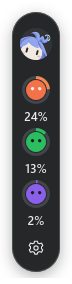
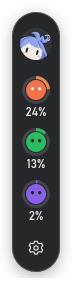
fix: tighten capsule percentage spacing and refine font

Changed region(s): [[0.3333, 0.3662, 0.6667, 0.4507], [0.3611, 0.5352, 0.6389, 0.6197], [0.3889, 0.7324, 0.6111, 0.8169]]

diff --git a/docs/UI_SPEC.md b/docs/UI_SPEC.md
@@ -25,6 +25,8 @@
 
 悬浮窗主体使用纯色 `#1B1C1F`，彩色角色同样使用纯色；外框圆角为主体宽度的一半。
 
+胶囊百分比采用 Windows 系统字体 Bahnschrift，字重 500；紧凑／标准／宽松字号保持 12／14／16px。数字行相对服务项顶部位于 33／45／57px，比上一版上移 4／7／7px，让百分比紧跟圆环，服务项高度保持原样。
+
 ## 尺寸和配色
 
 以下均为逻辑像素。胶囊在主体外留出 12px，详情和设置留出 12px，容纳透明阴影；这部分不计入设计主体尺寸。详情与设置分别使用 1.0 倍 Token；共用图标和按钮由所属面板传入缩放，胶囊的设置触点按胶囊尺寸独立缩放。
@@ -33,7 +35,7 @@
 | --- | --- |
 | 胶囊主体 | 紧凑／标准／宽松宽度 48／64／80px；默认三项主体 64 × 334px |
 | 胶囊原生窗口 | 默认 88 × 358px；0／1／2／3 项对应 218／218／288／358px；紧凑三项 72 × 284px，宽松三项 104 × 420px |
-| 服务项 | 标准 56 × 70px；圆环 50px；中心角色 28px；数字 14px |
+| 服务项 | 标准 56 × 70px；圆环 50px；中心角色 28px；数字 14px，Bahnschrift 500，数字行 y=45px |
 | 顶部 Logo | 紧凑／标准／宽松为 32／40／48px；与服务区间隔 12／16／20px |
 | 底部设置触点 | 紧凑／标准／宽松为 32 × 16／40 × 20／48 × 24px；图标 16／20／24px，与服务区间隔 12／16／20px；图标到底端留白 16px |
 | 快览原生窗口 | 296 × 422px；深色主体 272 × 398px；标题栏 64px |

diff --git a/docs/WINDOWS_QA.md b/docs/WINDOWS_QA.md
@@ -2,7 +2,14 @@
 
 日期：2026-10-10 · 工程版本：v0.2.0 · 目标：Windows x64。
 
-## 当前轮：收紧设置入口下方留白
+## 当前轮：百分比间距与字体
+
+- [x] 百分比数字在紧凑／标准／宽松档上移 4／7／7px，靠近所属圆环；服务项与胶囊尺寸保持原样。
+- [x] 数字使用 Windows 系统字体 Bahnschrift，字重 500，字号保持 12／14／16px；三档原生快照中无裁切或重叠。
+- [x] 9 项 Rust 测试、17 张原生外观快照及隔离控件输入检查通过，真实用户配置未改变。
+- [x] Release 构建及隔离配置启动检查通过。
+
+## 前轮：收紧设置入口下方留白
 
 - [x] 设置按钮行高度与 16／20／24px 图标一致，消除原先按钮行内的额外空白；图标到底端的内边距统一为 16px。
 - [x] Logo、服务项、图标尺寸及两端到服务区的间隔保持原样；标准窗口由 88×378px 收紧为 88×358px，紧凑 72×284px，宽松 104×420px。
